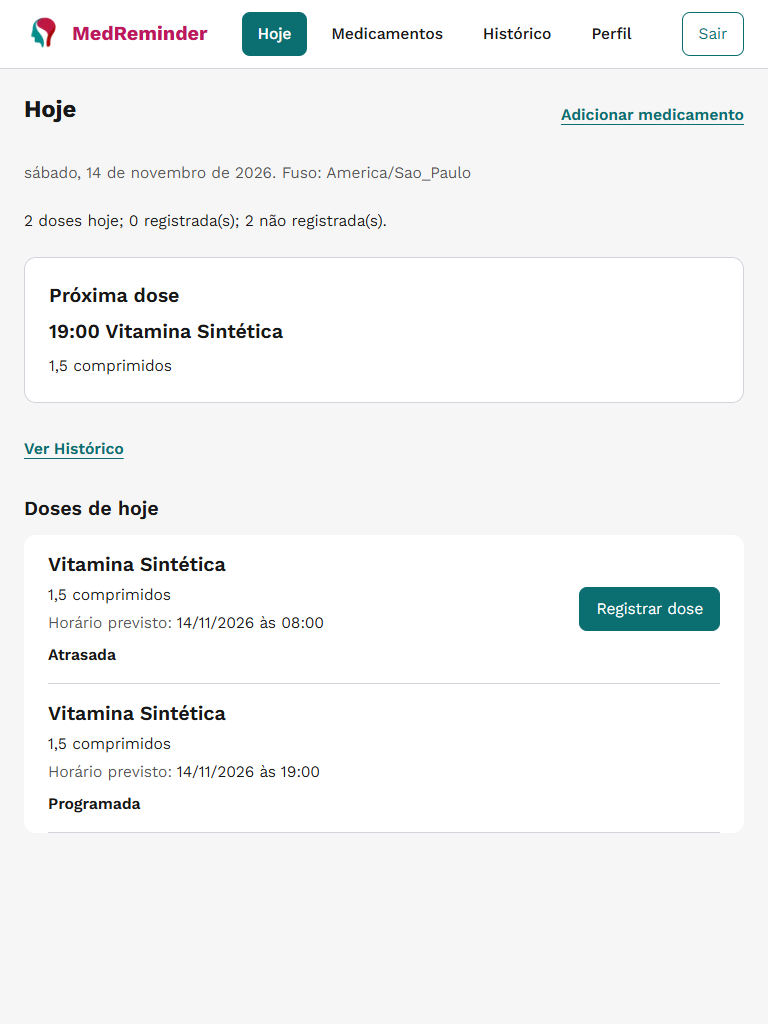
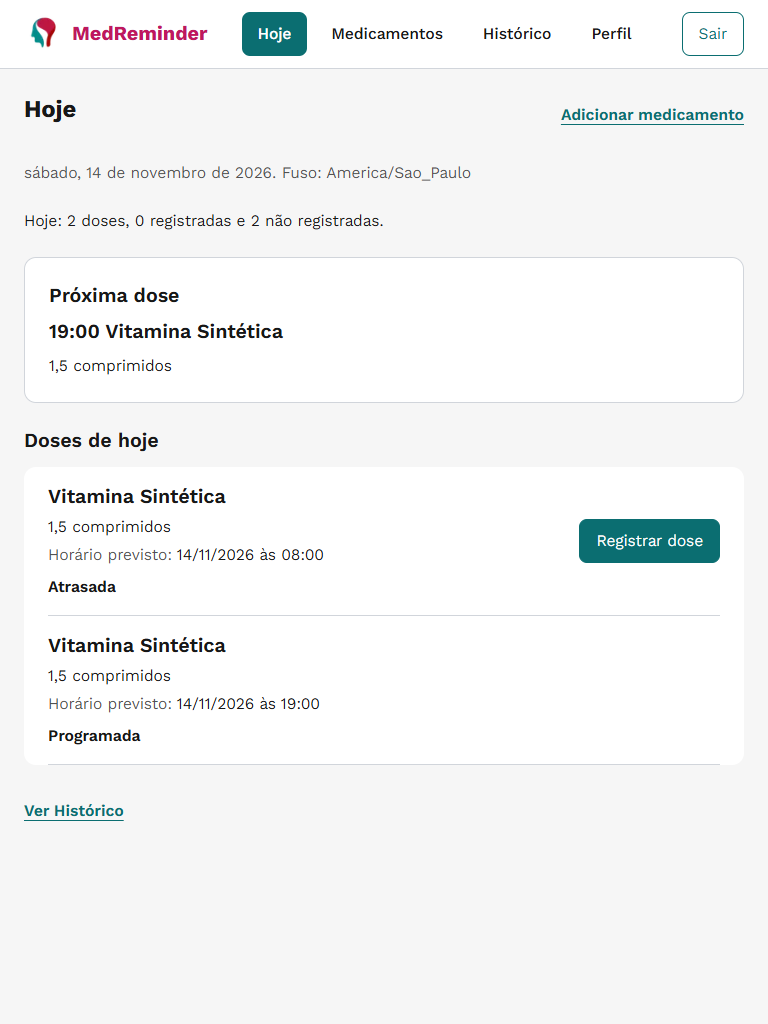
fix(web-ux): priorizar agenda e naturalizar contagens

diff --git a/tests/integration/web-ux-t26.test.tsx b/tests/integration/web-ux-t26.test.tsx
@@ -22,14 +22,14 @@ it('WUX_DAY_02', async () => {
   mount(); const list = await screen.findByRole('list', { name: 'Doses de hoje' }); const items = within(list).getAllByRole('listitem'); expect(items.map(item => item.getAttribute('data-dose-id'))).toEqual(['1', '3', '2', '4']);
   for (const item of items) { expect(item).toHaveTextContent('Vitamina A'); expect(item).toHaveTextContent('1,5 mg'); expect(item).toHaveTextContent('Horário previsto: 13/11/2026'); }
   for (const [index, time, state] of [[0, '11:00', 'Atrasada'], [1, '11:50', 'Registrada'], [2, '12:00', 'Pendente'], [3, '13:00', 'Programada']] as const) { expect(items[index]).toHaveTextContent(time); expect(items[index]).toHaveTextContent(state); }
-  const next = screen.getByRole('region', { name: 'Próxima dose' }); expect(next).toHaveTextContent('13:00'); expect(next).toHaveTextContent('Vitamina A'); expect(screen.getByText('4 doses hoje; 1 registrada(s); 3 não registrada(s).')).toBeVisible();
+  const next = screen.getByRole('region', { name: 'Próxima dose' }); expect(next).toHaveTextContent('13:00'); expect(next).toHaveTextContent('Vitamina A'); expect(screen.getByText('Hoje: 4 doses, 1 registrada e 3 não registradas.')).toBeVisible();
   expect(within(items[3]).queryByRole('button', { name: /Registrar dose/ })).not.toBeInTheDocument();
 });
 it('WUX_DAY_08', async () => {
   vi.mocked(fetch).mockImplementation(async input => json({ data: String(input).endsWith('usuario/me') ? user : [{ id: 1, data_dose: '2026-11-13' }, { id: 2, data_dose: 'inválida' }, { id: 3, data_dose: '2026-11-13T15:00:00Z', tomado: false }] }));
   mount(); const incomplete = await screen.findByRole('region', { name: 'Dados incompletos' });
   expect(incomplete).toHaveTextContent('Horário não informado'); expect(incomplete).toHaveTextContent('Data inválida'); expect(incomplete).toHaveTextContent('Medicamento não informado');
-  expect(within(incomplete).queryByRole('button')).not.toBeInTheDocument(); expect(incomplete.querySelector('time')).toBeNull(); expect(screen.getByText('0 doses hoje; 0 registrada(s); 0 não registrada(s).')).toBeVisible();
+  expect(within(incomplete).queryByRole('button')).not.toBeInTheDocument(); expect(incomplete.querySelector('time')).toBeNull(); expect(screen.getByText('Hoje: 0 doses, 0 registradas e 0 não registradas.')).toBeVisible();
 });
 it('T26 successful empty day offers History and Add without calling future doses today', async () => {
   vi.mocked(fetch).mockImplementation(async input => json({ data: String(input).endsWith('usuario/me') ? user : [row(5, '2026-11-14T16:00:00Z')] }));
@@ -44,13 +44,13 @@ it('T26 clock updates do not cancel pending mutations and confirmed counts use t
   fireEvent.click(screen.getByRole('button', { name: 'Registrar dose de Vitamina A, prevista para 13/11/2026 às 11:00' })); const call = vi.mocked(fetch).mock.calls.at(-1)!; expect(JSON.parse(String(call[1]!.body))).toEqual({ tomado: true });
   await act(async () => { vi.setSystemTime(new Date('2026-11-13T15:00:01Z')); document.dispatchEvent(new Event('visibilitychange')); }); expect(call[1]!.signal!.aborted).toBe(false);
   await act(async () => write.resolve(json({ data: { id: 1, tomado: true, data_dose: '2026-11-13T14:00:00Z' } })));
-  expect(screen.getByText('4 doses hoje; 2 registrada(s); 2 não registrada(s).')).toBeVisible(); const item = within(screen.getByRole('list', { name: 'Doses de hoje' })).getAllByRole('listitem')[0]; expect(item).toHaveTextContent('Registrada'); expect(within(item).getByRole('button', { name: /Corrigir registro/ })).toBeVisible();
+  expect(screen.getByText('Hoje: 4 doses, 2 registradas e 2 não registradas.')).toBeVisible(); const item = within(screen.getByRole('list', { name: 'Doses de hoje' })).getAllByRole('listitem')[0]; expect(item).toHaveTextContent('Registrada'); expect(within(item).getByRole('button', { name: /Corrigir registro/ })).toBeVisible();
 });
 it('T26 paginated loading labels partial next/counts and completes with every page', async () => {
   const second = pending(); vi.mocked(fetch).mockResolvedValueOnce(json({ data: user })).mockResolvedValueOnce(json({ data: [row(2, '2026-11-13T17:00:00Z')], pagination: { page: 1, limit: 1, total: 2, totalPages: 2 } })).mockReturnValueOnce(second.promise);
-  mount(); await screen.findByText('1 doses hoje; 0 registrada(s); 1 não registrada(s). (parcial)'); expect(screen.getByRole('region', { name: 'Próxima dose (parcial)' })).toHaveTextContent('14:00');
+  mount(); await screen.findByText('Hoje: 1 dose, 0 registradas e 1 não registrada. (parcial)'); expect(screen.getByRole('region', { name: 'Próxima dose (parcial)' })).toHaveTextContent('14:00');
   await act(async () => second.resolve(json({ data: [row(1, '2026-11-13T16:00:00Z')], pagination: { page: 2, limit: 1, total: 2, totalPages: 2 } })));
-  expect(screen.getByText('2 doses hoje; 0 registrada(s); 2 não registrada(s).')).toBeVisible(); expect(screen.getByRole('region', { name: 'Próxima dose' })).toHaveTextContent('13:00'); expect(screen.queryByText(/\(parcial\)/)).not.toBeInTheDocument();
+  expect(screen.getByText('Hoje: 2 doses, 0 registradas e 2 não registradas.')).toBeVisible(); expect(screen.getByRole('region', { name: 'Próxima dose' })).toHaveTextContent('13:00'); expect(screen.queryByText(/\(parcial\)/)).not.toBeInTheDocument();
 });
 it('T26 read failure is recoverable and Retry-After prevents automatic or early retries', async () => {
   vi.mocked(fetch).mockResolvedValueOnce(json({ data: user })).mockResolvedValueOnce(json({ message: 'Aguarde' }, 429, { 'Retry-After': '60' })).mockResolvedValueOnce(json({ data: rows }));

diff --git a/src/app/features/web-ux/screens/TodayScreen.tsx b/src/app/features/web-ux/screens/TodayScreen.tsx
@@ -28,16 +28,16 @@ function TodayAgenda({ identity, onSignOut, mode, medicationId }: TodayScreenPro
       {agendaMode && <Link className={link} href="/hoje">Ver Hoje</Link>}
       {collection.loading && <RequestFeedback kind="loading" message="Carregando doses…" />}
       {collection.error && <RequestFeedback context="Ao carregar doses" message={collection.error} loading={collection.loading} retry={{ onRetry: async () => { await refresh(); }, notBefore: retryNotBefore }} />}
-      <p role="status">{selected.counts.total} doses hoje; {selected.counts.registered} registrada(s); {selected.counts.unregistered} não registrada(s).{suffix}</p>
+      <p role="status">Hoje: {selected.counts.total} {selected.counts.total === 1 ? 'dose' : 'doses'}, {selected.counts.registered} {selected.counts.registered === 1 ? 'registrada' : 'registradas'} e {selected.counts.unregistered} não {selected.counts.unregistered === 1 ? 'registrada' : 'registradas'}.{suffix}</p>
       {selected.next && <section aria-label={`Próxima dose${suffix}`} className="space-y-2 rounded-[var(--radius-surface)] border border-[var(--border-default)] bg-[var(--surface-raised)] p-4 sm:p-6">
         <h2 className="text-xl font-semibold">Próxima dose{suffix}</h2><p className="break-words text-xl font-semibold"><time dateTime={selected.next.expectedAt}>{selected.next.timeLabel}</time> {selected.next.medicationName}</p><p>{selected.next.amountLabel}</p>
       </section>}
       {collection.complete && items.length === 0 && <RequestFeedback kind="empty" message={agendaMode ? 'Nenhuma dose encontrada nesta agenda' : 'Nenhuma dose prevista para hoje'} />}
-      {!agendaMode && <Link className={link} href="/historico">Ver Histórico</Link>}
       {items.length > 0 && <section aria-labelledby="dose-list-title"><h2 id="dose-list-title" className="mb-3 text-xl font-semibold">{agendaMode ? 'Agenda de doses' : 'Doses de hoje'}</h2>
         <ul aria-label={agendaMode ? 'Agenda de doses' : 'Doses de hoje'} className="min-w-0 rounded-[var(--radius-surface)] bg-[var(--surface-raised)] px-4 sm:px-6">{items.map(dose => <li key={dose.id} data-dose-id={dose.id}><DoseCard dose={dose} now={now} zone={zone} status={mutation.status[dose.id]} onMutate={(id, value) => { refreshNow(); return mutation.mutate(id, value); }} onRetry={() => { refreshNow(); return mutation.retry(dose.id); }} /></li>)}</ul>
       </section>}
       {selected.incomplete.length > 0 && <section aria-labelledby="incomplete-title" className="space-y-3"><h2 id="incomplete-title" className="text-xl font-semibold">Dados incompletos</h2><p className="text-[var(--text-muted)]">Registros incompletos da coleção não entram nos totais ou filtros.</p><ul className="divide-y divide-[var(--border-default)]">{selected.incomplete.map((dose, index) => <li key={dose.id ?? `incomplete-${index}`} className="py-3"><p>{dose.id ? `Registro ${dose.id}: ` : ''}{dose.reason}</p></li>)}</ul></section>}
+      {!agendaMode && <Link className={link} href="/historico">Ver Histórico</Link>}
     </div>
   </AppShell>;
 }

diff --git a/tests/nonfunctional/web-ux-t45.spec.ts b/tests/nonfunctional/web-ux-t45.spec.ts
@@ -98,3 +98,13 @@ test('WUX_ACCESS_08 forms remain reachable at all four viewport sizes with long 
     await openVisualRoute(page,'/meus-medicamentos');const opener=page.getByRole('button',{name:'Excluir medicamento',exact:true});await opener.click();const dialog=page.getByRole('dialog');await expect(dialog).toBeVisible();await reachable(dialog.getByRole('button',{name:'Confirmar exclusão'}));const bounds=await dialog.boundingBox();expect(bounds!.x).toBeGreaterThanOrEqual(0);expect(bounds!.x+bounds!.width).toBeLessThanOrEqual(width);expect(bounds!.height).toBeLessThanOrEqual(height);await page.keyboard.press('Escape');await expect(dialog).toHaveCount(0);await expect(opener).toBeFocused();await noHorizontalOverflow(page);
   }
 });
+
+test('T45 review follow-up gives natural exact counts and places history after the complete daily agenda', async ({ page }) => {
+  await page.setViewportSize({width:320,height:568});await openVisualRoute(page,'/hoje');
+  await expect(page.getByRole('status').filter({hasText:'Hoje: 2 doses, 0 registradas e 2 não registradas.'})).toHaveText('Hoje: 2 doses, 0 registradas e 2 não registradas.');
+  const list=page.getByRole('list',{name:'Doses de hoje'});await expect(list).toContainText(visualMedication.quantidadeDose);
+  expect(await list.evaluate(el=>!!(el.compareDocumentPosition(document.querySelector('a[href="/historico"]:not(nav a)')!)&Node.DOCUMENT_POSITION_FOLLOWING))).toBe(true);
+  await page.route(`${PRODUCTION_API_ORIGIN}/dose/31`,route=>route.fulfill({json:{data:{id:31,data_dose:'2026-11-14T08:00:00-03:00',tomado:true,remedio:visualMedication}}}));
+  await page.getByRole('button',{name:/Registrar dose de/}).click();await expect(page.getByRole('status').filter({hasText:'Hoje: 2 doses, 1 registrada e 1 não registrada.'})).toHaveText('Hoje: 2 doses, 1 registrada e 1 não registrada.');
+  await page.getByRole('link',{name:'Ver Histórico',exact:true}).click();await expect(page).toHaveURL(/\/historico$/);
+});

diff --git a/tests/functional/web-ux-t36.spec.ts b/tests/functional/web-ux-t36.spec.ts
@@ -24,7 +24,7 @@ test('T36 failed dose read stays partial and retries instead of claiming empty s
   await prepareSession(page); await routeReadApi(page); let failed = true;
   await page.route(`${PRODUCTION_API_ORIGIN}/dose/me?**`, route => failed ? route.fulfill({ status: 503, json: { message: 'Indisponível' } }) : route.fulfill({ json: { data: [dose(2, '2026-11-14T16:00:00Z')] } }));
   await page.goto('/hoje'); await expect(page.getByRole('alert').filter({ hasText: 'Ao carregar doses' })).toBeVisible();
-  await expect(page.getByText('Nenhuma dose prevista para hoje', { exact: true })).toHaveCount(0); await expect(page.getByRole('status').filter({ hasText: '0 doses hoje' })).toContainText('(parcial)');
+  await expect(page.getByText('Nenhuma dose prevista para hoje', { exact: true })).toHaveCount(0); await expect(page.getByRole('status').filter({ hasText: 'Hoje: 0 doses, 0 registradas e 0 não registradas.' })).toContainText('(parcial)');
   failed = false; await page.getByRole('button', { name: 'Tentar novamente' }).click(); await expect(page.getByRole('list', { name: 'Doses de hoje' }).locator('li')).toHaveCount(1);
 });
 test('T36 restoring and unavailable session withholds private content until manual recovery', async ({ page }) => {

diff --git a/tests/support/web-ux-visual.ts b/tests/support/web-ux-visual.ts
@@ -1,7 +1,7 @@
 import type { Locator, Page } from '@playwright/test';
 import { expect, PRODUCTION_API_ORIGIN } from './api-guard';
 import { prepareSession, routeReadApi, dose } from './web-ux-routes';
-export const visualMedication = { id: 17, nome: 'Vitamina Sintética', classificacao: 'Suplemento', quantidadeCaixa: 10, dataValidade: '2027-01-01', cor: 'Azul', motivo: 'Rotina', observacao: '', quantidadeDose: '1,5 mg', unidadeMedida: 'comprimidos' };
+export const visualMedication = { id: 17, nome: 'Vitamina Sintética', classificacao: 'Suplemento', quantidadeCaixa: 10, dataValidade: '2027-01-01', cor: 'Azul', motivo: 'Rotina', observacao: '', quantidadeDose: '1,5 comprimidos', unidadeMedida: 'comprimidos' };
 export const visualRoutes = [['/', 'home'], ['/login', 'login'], ['/cadastro', 'signup'], ['/hoje', 'today'], ['/meus-medicamentos', 'medications'], ['/historico', 'history'], ['/Configuracoes', 'profile'], ['/novo-medicamento', 'wizard'], ['/meus-medicamentos/17/editar', 'edit'], ['/meus-lembretes', 'agenda']] as const;
 export async function visualSetup(page: Page) {
   await prepareSession(page);

diff --git a/tests/nonfunctional/web-ux-t46.spec.ts b/tests/nonfunctional/web-ux-t46.spec.ts
@@ -68,6 +68,9 @@ test('WUX_ACCESS_09 effective 200 percent text reflows all routes and reduced mo
     if (await menu.count()) {
       await menu.click(); const dialog = page.getByRole('dialog'); await reachable(dialog.getByRole('link', { name: 'Perfil', exact: true }));
       if (name === 'today') { await dialog.evaluate(el => { el.scrollTop = 0; }); await page.screenshot({ path: '.specs/features/web-ux-consistency/captures/b7-text200-menu-320.png' }); }
+      const signOut = dialog.getByRole('button', { name: 'Sair', exact: true });
+      for (let tab = 0; tab < 12 && !await signOut.evaluate(el => el === document.activeElement); tab++) await page.keyboard.press('Tab');
+      await expect(signOut).toBeFocused(); await expect(signOut).toBeInViewport(); await reachable(signOut);
       await page.keyboard.press('Escape'); await expect(dialog).toHaveCount(0); await expect(menu).toBeFocused();
     }
   }

diff --git a/.specs/features/web-ux-consistency/tasks.md b/.specs/features/web-ux-consistency/tasks.md
@@ -1715,7 +1715,7 @@ Este plano contém 47 tarefas em sete fases de 6, 7, 7, 7, 7, 9 e 4 tarefas. As 
 
 ## Handoff
 
-**Settled mid-build:** user: "Sim, corrigir teste e validação" autorizou corrigir o payload exato novo T24 e bloquear cor/unidade ausentes e URL da foto acima de 255 caracteres (2026-11-14; context.md). Spec e adendo aprovados em 2026-11-13; design e Tasks aprovados em 2026-11-14. user: "execução em lotes sequenciais com subagentes". Correção do pré-requisito autorizada com "sim": package.json usa next build --webpack. Gate inicial --execute passou em 2026-11-14, com build, tipos e lint verdes; diagnóstico e limites em baseline.md. B1 concluiu T1–T6, B2 concluiu T7–T13 e B3 concluiu T14–T20 com gates por tarefa e Build/tipos/lint verdes em 2026-11-14. B4 concluiu T21–T27, com 39 testes próprios e regressões afetadas verdes; B5 concluiu T28–T34 com gates por tarefa; B6 concluiu T35–T43 com 42 testes funcionais próprios e quatro integrações novas; T44–T47 permanecem pendentes. Suporte adicional autorizado após T34 concluído: provider legado reutiliza collector T11 para paginação completa, com provas de página 2 e falha parcial; gate final 89/89, tipos/lint verdes. user: "Sim, alinhar o teste à paginação" e "continue" autorizou a expectativa exata de IT07, sem mudar as demais verificações. B4 foi interrompido por limite de uso da sessão e o usuário autorizou a retomada: "continue com o processo". Root aprovou useDoseCollection.ts como suporte coeso de T26/T27, sem alterar os critérios. Na retomada .agents/ e skills-lock.json estão staged (estado preexistente na retomada); preservar índice e conteúdo, usando commits restritos aos caminhos de cada tarefa. LembreteProvider mantém interface legada e usa loadDoseCollection({includeRaw:true}) para todas as páginas; telas novas usam o coletor sem raw e identityKey. Passar array estável de coleção ao useDoseMutation; substituir o snapshot cancela mutações anteriores.
+**Settled mid-build:** user: "Sim, corrigir teste e validação" autorizou corrigir o payload exato novo T24 e bloquear cor/unidade ausentes e URL da foto acima de 255 caracteres (2026-11-14; context.md). Spec e adendo aprovados em 2026-11-13; design e Tasks aprovados em 2026-11-14. user: "execução em lotes sequenciais com subagentes". Correção do pré-requisito autorizada com "sim": package.json usa next build --webpack. Gate inicial --execute passou em 2026-11-14, com build, tipos e lint verdes; diagnóstico e limites em baseline.md. B1 concluiu T1–T6, B2 concluiu T7–T13 e B3 concluiu T14–T20 com gates por tarefa e Build/tipos/lint verdes em 2026-11-14. B4 concluiu T21–T27, com 39 testes próprios e regressões afetadas verdes; B5 concluiu T28–T34 com gates por tarefa; B6 concluiu T35–T43 com 42 testes funcionais próprios e quatro integrações novas; T44–T46 implementadas com gates próprios; T47 e verificação final permanecem pendentes. Suporte adicional autorizado após T34 concluído: provider legado reutiliza collector T11 para paginação completa, com provas de página 2 e falha parcial; gate final 89/89, tipos/lint verdes. user: "Sim, alinhar o teste à paginação" e "continue" autorizou a expectativa exata de IT07, sem mudar as demais verificações. B4 foi interrompido por limite de uso da sessão e o usuário autorizou a retomada: "continue com o processo". Root aprovou useDoseCollection.ts como suporte coeso de T26/T27, sem alterar os critérios. Na retomada .agents/ e skills-lock.json estão staged (estado preexistente na retomada); preservar índice e conteúdo, usando commits restritos aos caminhos de cada tarefa. LembreteProvider mantém interface legada e usa loadDoseCollection({includeRaw:true}) para todas as páginas; telas novas usam o coletor sem raw e identityKey. Passar array estável de coleção ao useDoseMutation; substituir o snapshot cancela mutações anteriores.
 **Dispatched:** B1 /root/batch_01 returned, T1–T6 em 7edc5d1. B2 /root/batch_02 returned, T7–T13 em f704393. B3 /root/batch_03 returned, T14–T20 em 31da0c9. B4 /root/batch_04 returned, T21–T27 em 1b7e1bc. B5 /root/batch_05 returned, T28–T34 e paginação em 981ae3a. B6 /root/batch_06 returned, T35–T43 e normalização em e986dab, 42 funcionais novos + 4 integrações + 1 unitário, regressões afetadas e Build/tipos/lint verdes. B7 /root/batch_07, T44–T47, HEAD e986dab, envio autorizado em 2026-11-14; aguardando retorno. Migração de regressões aprovada para depois de B7; nenhum outro worker ou Verifier despachado.
 **Walked:** Não executado. Inspeções da crítica anterior não aprovam as telas ainda não implementadas.
 
@@ -1739,3 +1739,11 @@ Este plano contém 47 tarefas em sete fases de 6, 7, 7, 7, 7, 9 e 4 tarefas. As 
 **B6 handoff**: nine task commits in order: T35 3020ade (3 functional), T36 6bf5ab0 (6), T37 278cf88 (2), T38 6482b56 (7), T39 e34fe98 (3), T40 5d7313e (3), T41 0bd1eda (10), T42 c89f31d (5 functional + 4 integration), T43 a900a30 (3). Total new tests: 42 functional + 4 lifecycle integration + 1 canonical-model test. Selected existing regressions also passed; legacy route-test migration remains the root-owned approved follow-up after B7. No manual independent browser walk or real-API E2E is claimed by this batch. Final visual/responsive/motion work remains T45–T47, and edit-route work remains T44.
 
 **Preserved index**: 44 preexisting skill/lock records remain staged; SHA-256 of git ls-files --stage records joined by LF remains 87300EDE63817AE45055AD7E3D3305E74B137F5D8C6ADE86ABADA7BEC941B6D8. No push, deploy, production API call or backend/mobile modification.
+
+### B7 observed visual follow-up
+
+**Scope**: orchestrator review after T45 requested natural singular/plural in Today, keeping all three counts and the partial marker, moving the History link after the agenda, and making the same-ID visual fixture use the same literal dose amount. Today now shows e.g. “Hoje: 2 doses, 1 registrada e 1 não registrada.” No schedule/order/unit conversion changed. Five exact T26 text assertions and the T36 count selector were migrated to the approved wording with numbers/partial assertions intact. One new T45 gesture verifies exact before/after counts, amount from API, History DOM order and destination.
+
+**Verified**: 2026-11-15: T36+T45+T46 fresh-build Chrome gate passed 21/21 (6+12+3), T26 integration passed 10/10. Subsequent T46 gate passed 3/3 after adding Tab-to-Sair/focused/in-viewport assertions at 200%, followed by Escape restoring Menu. The menu can scroll; Sair need not fit the first frame. Reviewed updated Today 320/390, medications 1440 and editor 200% captures. No assertion relaxed or removed.
+
+**Resume**: user “continue”, 2026-11-15, resumes B7 after a usage-limit interruption. T44 a86f850, T45 3b00676 and T46 57b2abf are committed; this follow-up is complete, T47 remains next. Final proofs, independent walk/Verifier and approved legacy migration remain orchestrator-owned.

diff --git a/.specs/features/web-ux-consistency/b7-visual-review.md b/.specs/features/web-ux-consistency/b7-visual-review.md
@@ -25,3 +25,7 @@ T46 adds the effective 200% text and reduced-motion evidence. Independent story 
 Directly inspected native captures b7-text200-login-320.png, b7-text200-profile-320.png, b7-text200-edit-320.png, b7-text200-menu-320.png and b7-reduced-menu-320.png. The 200% inspection exposed excessive rem padding and the logo wrapper exceeding its parent. Fixed the spacing basis to the approved 4px token while keeping type in rem, and constrained the logo wrapper. Reinspected final login, Profile and menu at 200%: dates show the full date with calendar control; actions wrap legibly; text is 32px and remains reachable. Native single-line inputs scroll their editable long values normally; static text wraps. No overflow hiding was added.
 
 Motion uses 150ms quick response and 250ms native-dialog/stage entrance, ease (0.22,1,0.36,1), 8px travel and .96 dialog scale. Default content remains visible. Closed surfaces unmount synchronously. Color transitions between primary and disabled initially crossed a low-contrast pair; buttons now switch their foreground/background together and animate only border color. The unchanged contrast assertion caught this defect and passes after the fix. Reduced motion removes transitions/animations with content and controls present. No page-load choreography, loop, blur dependency, retained modal exit or delayed mutation is introduced.
+
+## Orchestrator review follow-up
+
+Updated Today uses natural singular/plural counts and puts Ver Histórico after the daily agenda. Reopened Today 320/390 and medications 1440: the first overdue row now appears earlier without omitting its scheduled time; both screens display the same synthetic 1,5 comprimidos from the same-ID fixture. Reopened editor at 200% after fixture normalization. All values remain literal API presentation, with no clinical conversion. T46 now tabs through the 200% dialog until Sair is focused and inside the viewport after native autoscroll, then Escape restores Menu. Lower menu items outside the initial frame remain reachable.

diff --git a/.specs/features/web-ux-consistency/context.md b/.specs/features/web-ux-consistency/context.md
@@ -107,6 +107,10 @@ Nenhuma área foi recusada. Detalhes de comportamento foram delegados explicitam
 - Capturas devem ser inspecionadas nos tamanhos originais antes de atualizar referências. Não há autorização para reduzir tolerância de qualidade, aumentar máscaras, eliminar casos ou declarar E2E real com API interceptada.
 - O trabalho permanece sequencial: concluir B6 e B7, migrar as regressões autorizadas em lotes suplementares conforme necessário e executar as provas e a verificação independente finais.
 
+### B7 Resume Authorization
+
+- Em 2026-11-15, após interrupção por limite de uso, o usuário respondeu: "continue". Retomar o follow-up de acabamento pendente, concluir T47 e prosseguir com a migração de regressões já aprovada e a verificação final.
+
 ## Deferred Ideas
 
 - Implementação e correções do app mobile.
